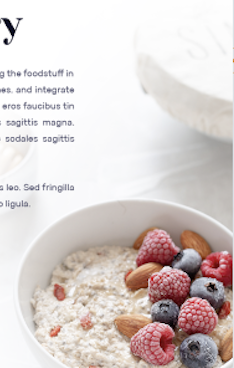
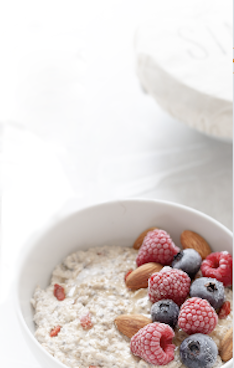
Added theme styles and typography: git status

Changed region(s): [[0.0, 0.1793, 0.3291, 0.4484], [0.0, 0.4783, 0.3291, 0.5978], [0.0, 0.0299, 0.0897, 0.1196]]

diff --git a/index.html b/index.html
@@ -36,7 +36,7 @@
 				<h1>Welcome to our cuisine restaurant</h1>
 				<form action="#">
 					<input type="search" placeholder="Search here">
-					<div>
+					<div class="button">
 						<a href="#">Location  <i class="fa-solid fa-caret-down"></i></a>
 					</div>
 				</form>
@@ -57,17 +57,24 @@
 					ipsam impedit inventore voluptas quaerat quod saepe laborum dolores fugiat accusantium ea. 
 					Earum inventore soluta voluptates asperiores.
 				</p>
-				<div>
-					<a href="#">Discover Menu 
-						<span><i class="fa-solid fa-arrow-right"></i></span>
+				<p>
+					Lorem ipsum dolor, sit amet consectetur adipisicing elit. Suscipit error odio quidem tenetur, 
+					ipsam impedit inventore voluptas quaerat quod saepe laborum dolores fugiat accusantium ea. 
+					Earum inventore soluta voluptates asperiores.
+				</p>
+				<div class="button about-button">
+					<a href="#">Discover Menu
 					</a>
+				</div>
+				<div class="button discover-menu-second">
+					<i class="fa-solid fa-arrow-right"></i>
 				</div>
 			</section>
 		</section>
 
 		<section class="order-now">
 			<section class="order-now-text">
-				<h6>Order Online Now</a></h6>
+				<h6>Order Online Now</h6>
 				<h2>Our specialty cuisine</h2>
 				<ul>
 					<li><a href="#">Breakfast</a></li>
@@ -99,18 +106,18 @@
 				<h2>Opening Hours</h2>
 			</section>
 			<section class="contact-info">
-				<i class="fa-solid fa-phone"></i>
+				<i class="contact-emphasis fa-solid fa-phone"></i>
 				<span>Call Now</span>
-				<span>+12345 678 910</span>
+				<span class="contact-emphasis">+12345 678 910</span>
 			</section>
 			<section>
 				<section class="operation-hours">
 					<span>Monday - Tuesday</span>
-					<span>09:00 am - 22:00 pm</span>
+					<span class="hours-bold">09:00 am - 22:00 pm</span>
 				</section>
 				<section class="operation-hours">
 					<span>Friday - Sunday</span>
-					<span>11:00 am - 20:00 pm</span>
+					<span class="hours-bold">11:00 am - 20:00 pm</span>
 				</section>
 			</section>
 			<figure>
@@ -122,8 +129,8 @@
 			<h6>Testimonials</h6>
 			<h2>Customers Say</h2>
 			<img src="img/customer_avatar.png" alt="User avatar picture">
-			<h4>Mr. John Smith</h4>
-			<span>Art Director</span>
+			<h4>Mr John Smith</h4>
+			<span class="customer-title">Art Director</span>
 			<span class="stars">
 			<i class="fa-solid fa-star"></i><i class="fa-solid fa-star"></i><i class="fa-solid fa-star"></i><i class="fa-solid fa-star"></i><i class="fa-solid fa-star"></i>
 			</span>

diff --git a/css/style.css b/css/style.css
@@ -20,10 +20,12 @@
 /******************************************
 /* BASE STYLES
 /*******************************************/
+html {
+  font-size: 16px;
+}
 
 body {
   display: block;
-  padding: 10px;
 }
 
 ul {
@@ -57,8 +59,8 @@ nav li {
 
 /*** MAIN LAYOUT ***/
 main {
-  height: 300px;
-  padding-left: 50px;
+  height: 500px;
+  padding-left: 90px;
   padding-top: 10px;
 }
 
@@ -94,12 +96,12 @@ main li {
 
 /*** ABOUT LAYOUT ***/
 .about {
-  height: 400px;
+  height: 450px;
   padding-top: 10px;
 }
 
 .about-text {
-  width: 50%;
+  width: 43%;
   position: relative;
   left: 30%;
 }
@@ -196,3 +198,111 @@ i.fa-solid.fa-phone,
 /******************************************
 /* ADDITIONAL STYLES
 /*******************************************/
+
+/*** BUTTON ***/
+.button {
+  background-color: #ff9429;
+  border-radius: 5%;
+  color: #fff;
+  float: left;
+  padding-left: 20px;
+  padding-right: 20px;
+}
+
+.button a {
+  color: #fff;
+}
+
+.about-button {
+  height: 35px;
+  width: 140px;
+  padding-top: 7px;
+}
+
+.discover-menu-second {
+  background-color: #ffaa4d;
+  height: 35px;
+  padding-left: 15px;
+  padding-right: 15px;
+  padding-top: 7px;
+}
+
+/*** THEME ***/
+
+header,
+main {
+  background-color: #f2f6f7;
+}
+
+
+.about {
+  background-color: #fdfdfd;
+  background: url(../img/background_pie.png) top left no-repeat, url(../img/background_oatmeal_fruit_bowl.png) bottom right no-repeat;
+  background-size: 29%;
+}
+
+.contact-emphasis {
+  color: #ff9429;
+  font-size: 1.7rem;
+}
+
+.customer-title {
+  color: #acacb5;
+}
+
+li a:hover {
+  color:#ff9429;
+}
+
+i.fa-brands {
+  color: #ff9429;
+}
+
+main {
+  background-image: url(../img/background_fruit.png);
+  background-repeat: no-repeat;
+  background-position: bottom right;
+  background-size: 35%;
+}
+
+.stars {
+  color: #ff9429;
+}
+
+/*** Typography ***/
+nav a,
+.order-now a {
+  color: black;
+}
+
+h1,
+h2 {
+  font-family: "Philosopher", sans-serif;
+  font-weight: 700;
+  font-size: 4rem;
+  margin: 15px 0;
+  text-transform: capitalize;
+}
+
+h2 {
+  font-size: 3.5rem;
+}
+
+h4 {
+  font-size: 1.4rem;
+}
+
+h6 {
+  color: #ff9429;
+  font-size: 1rem;
+  margin: 10px 0;
+}
+
+.hours-bold {
+  font-size: 1.4rem;
+  font-weight: 700;
+}
+
+.testimonials p {
+  font-style: italic;
+}
